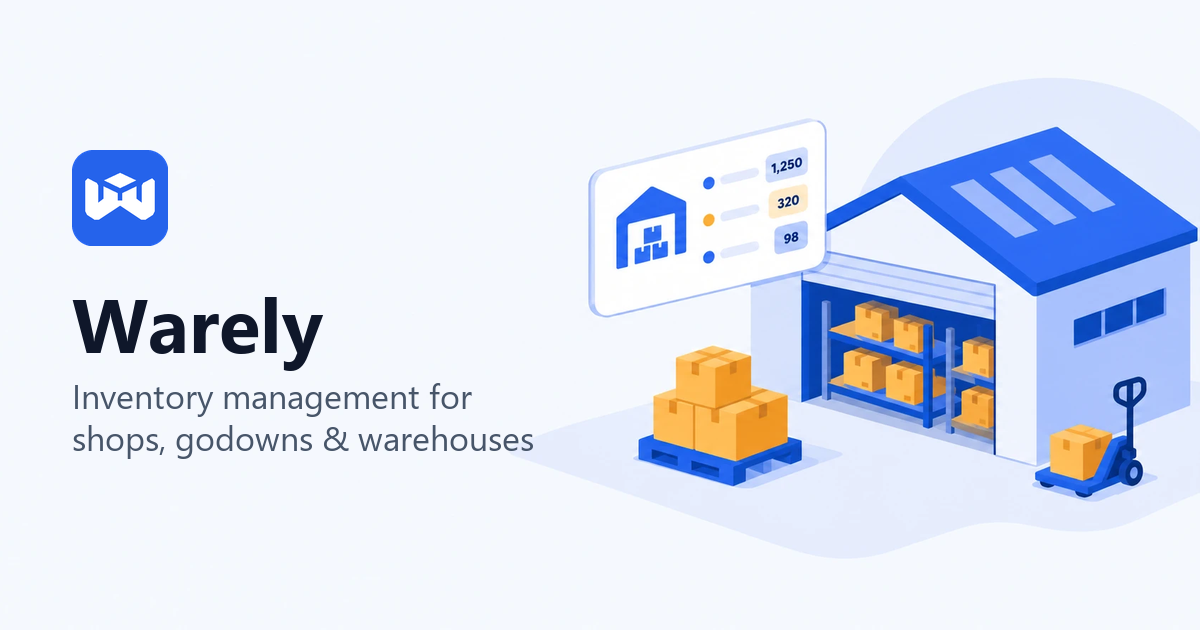
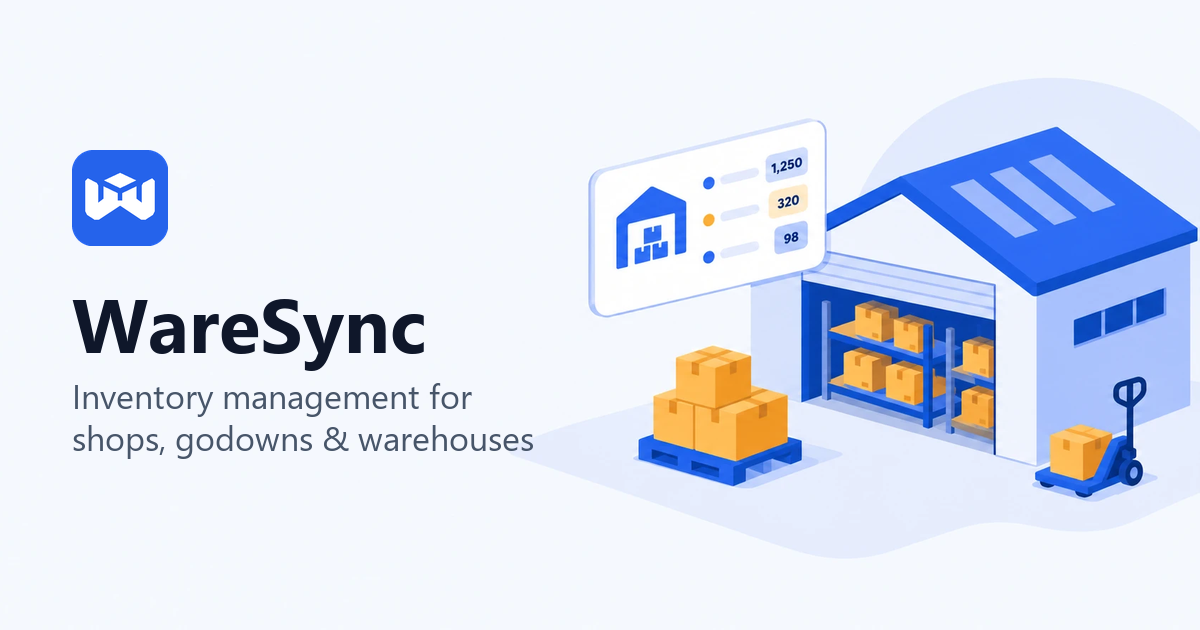
Rename Warely to WareSync
- Brand name, page titles, auth and settings screens, legal pages and emails
- Meta tags, sitemap, robots.txt, manifest and share image point to waresyncc.onrender.com
- Session cookie renamed to waresync_session (users are signed out once)
- Package names, env examples and README updated; MongoDB name stays stock-tracker

Changed region(s): [[0.2158, 0.4524, 0.37, 0.6032]]

diff --git a/server/src/lib/email.js b/server/src/lib/email.js
@@ -6,7 +6,7 @@
 //   EMAIL_PROVIDER = brevo | resend    (unset → email features are off)
 //   EMAIL_API_KEY  = the provider's API key
 //   EMAIL_FROM     = sender address, verified with the provider
-//   EMAIL_FROM_NAME (optional, default "Warely")
+//   EMAIL_FROM_NAME (optional, default "WareSync")
 //
 // In development with no provider set, messages are printed to the
 // console instead so the flows can still be tried end to end.
@@ -14,7 +14,7 @@
 const PROVIDER = (process.env.EMAIL_PROVIDER || "").toLowerCase();
 const API_KEY = process.env.EMAIL_API_KEY || "";
 const FROM = process.env.EMAIL_FROM || "";
-const FROM_NAME = process.env.EMAIL_FROM_NAME || "Warely";
+const FROM_NAME = process.env.EMAIL_FROM_NAME || "WareSync";
 const IS_DEV = process.env.NODE_ENV !== "production";
 
 function emailEnabled() {
@@ -76,14 +76,14 @@ function layout({ heading, intro, buttonLabel, link, footnote }) {
   const html = `<!doctype html><html><body style="margin:0;background:#f6f7f9;font-family:-apple-system,Segoe UI,Roboto,Helvetica,Arial,sans-serif;color:#0f172a">
 <table role="presentation" width="100%" cellpadding="0" cellspacing="0" style="padding:32px 16px"><tr><td align="center">
 <table role="presentation" width="100%" cellpadding="0" cellspacing="0" style="max-width:480px;background:#ffffff;border:1px solid #e2e8f0;border-radius:12px;padding:32px">
-<tr><td style="font-size:20px;font-weight:700;padding-bottom:4px">Warely</td></tr>
+<tr><td style="font-size:20px;font-weight:700;padding-bottom:4px">WareSync</td></tr>
 <tr><td style="font-size:18px;font-weight:600;padding:16px 0 8px">${escapeHtml(heading)}</td></tr>
 <tr><td style="font-size:15px;line-height:1.6;color:#334155">${escapeHtml(intro)}</td></tr>
 <tr><td style="padding:24px 0"><a href="${escapeHtml(link)}" style="display:inline-block;background:#2563eb;color:#ffffff;text-decoration:none;font-weight:600;padding:12px 20px;border-radius:8px">${escapeHtml(buttonLabel)}</a></td></tr>
 <tr><td style="font-size:13px;line-height:1.6;color:#64748b">Or paste this link into your browser:<br><span style="word-break:break-all">${escapeHtml(link)}</span></td></tr>
 <tr><td style="font-size:13px;line-height:1.6;color:#64748b;padding-top:16px">${escapeHtml(footnote)}</td></tr>
 </table></td></tr></table></body></html>`;
-  const text = `${heading}\n\n${intro}\n\n${buttonLabel}: ${link}\n\n${footnote}\n\n— Warely`;
+  const text = `${heading}\n\n${intro}\n\n${buttonLabel}: ${link}\n\n${footnote}\n\n— WareSync`;
   return { html, text };
 }
 
@@ -91,36 +91,36 @@ function sendPasswordResetEmail(to, token) {
   const link = `${appUrl()}/reset-password?token=${token}`;
   const { html, text } = layout({
     heading: "Reset your password",
-    intro: "Someone asked to reset the password for your Warely account. If it was you, choose a new password using the button below. The link works once and expires in 1 hour.",
+    intro: "Someone asked to reset the password for your WareSync account. If it was you, choose a new password using the button below. The link works once and expires in 1 hour.",
     buttonLabel: "Choose a new password",
     link,
     footnote: "If you didn't ask for this, you can ignore this email — your password won't change.",
   });
-  return sendEmail({ to, subject: "Reset your Warely password", html, text });
+  return sendEmail({ to, subject: "Reset your WareSync password", html, text });
 }
 
 function sendVerificationEmail(to, token) {
   const link = `${appUrl()}/verify-email?token=${token}`;
   const { html, text } = layout({
     heading: "Confirm your email address",
-    intro: "Confirm this is your email so you can use it to recover your Warely account. The link expires in 24 hours.",
+    intro: "Confirm this is your email so you can use it to recover your WareSync account. The link expires in 24 hours.",
     buttonLabel: "Confirm email",
     link,
-    footnote: "If you didn't create a Warely account, you can ignore this email.",
+    footnote: "If you didn't create a WareSync account, you can ignore this email.",
   });
-  return sendEmail({ to, subject: "Confirm your email for Warely", html, text });
+  return sendEmail({ to, subject: "Confirm your email for WareSync", html, text });
 }
 
 function sendPasswordChangedEmail(to) {
   const link = `${appUrl()}/forgot-password`;
   const { html, text } = layout({
     heading: "Your password was changed",
-    intro: "The password for your Warely account was just changed, and every other device was signed out.",
+    intro: "The password for your WareSync account was just changed, and every other device was signed out.",
     buttonLabel: "Wasn't you? Reset it now",
     link,
     footnote: "If you made this change, there's nothing else to do.",
   });
-  return sendEmail({ to, subject: "Your Warely password was changed", html, text });
+  return sendEmail({ to, subject: "Your WareSync password was changed", html, text });
 }
 
 // Security notice after a password change. Best effort: a mail outage

diff --git a/client/src/pages/legal/Terms.jsx b/client/src/pages/legal/Terms.jsx
@@ -12,8 +12,8 @@ const sections = [
     body: (
       <>
         <p>
-          These Terms of Service (“Terms”) are an agreement between you and {SITE.legalName} (“Warely”, “we”, “us”), and they
-          cover your use of the Warely website and app (the “Service”). By creating a workspace, signing in, or using the
+          These Terms of Service (“Terms”) are an agreement between you and {SITE.legalName} (“WareSync”, “we”, “us”), and they
+          cover your use of the WareSync website and app (the “Service”). By creating a workspace, signing in, or using the
           Service, you agree to these Terms and to our <Link to="/privacy">Privacy Policy</Link>. If you don't agree, please
           don't use the Service.
         </p>
@@ -26,7 +26,7 @@ const sections = [
   },
   {
     id: "eligibility",
-    title: "Who can use Warely",
+    title: "Who can use WareSync",
     body: (
       <p>
         You must be at least 18 years old and able to enter into a binding contract under Indian law to create a workspace.
@@ -60,7 +60,7 @@ const sections = [
     body: (
       <>
         <p>
-          Everything you put into Warely — items, quantities, warehouses, party names, requests and logs (“Your Data”) — stays
+          Everything you put into WareSync — items, quantities, warehouses, party names, requests and logs (“Your Data”) — stays
           yours. You give us permission to store, process and display Your Data only as needed to run the Service for you, keep
           it secure, and fix problems. We don't sell Your Data or use it for advertising.
         </p>
@@ -99,11 +99,11 @@ const sections = [
   },
   {
     id: "not-advice",
-    title: "Warely is a record-keeping tool, not advice",
+    title: "WareSync is a record-keeping tool, not advice",
     body: (
       <>
         <p>
-          Warely helps you record and view stock movements. Its figures — stock levels, daily opening and closing stock,
+          WareSync helps you record and view stock movements. Its figures — stock levels, daily opening and closing stock,
           reports and exports — are calculated only from the entries made in your workspace. They are not an audit, a
           valuation, or accounting, tax, GST or legal advice.
         </p>
@@ -120,7 +120,7 @@ const sections = [
     body: (
       <>
         <p>
-          Warely is currently offered free of charge. We work to keep it running and your data safe, but we don't promise it
+          WareSync is currently offered free of charge. We work to keep it running and your data safe, but we don't promise it
           will always be available, uninterrupted or error-free. It may be unavailable during maintenance, outages of our
           hosting providers, or events outside our control.
         </p>
@@ -148,7 +148,7 @@ const sections = [
     title: "Our intellectual property",
     body: (
       <p>
-        The Warely name, logo, software and website content belong to us. These Terms give you a limited, non-exclusive,
+        The WareSync name, logo, software and website content belong to us. These Terms give you a limited, non-exclusive,
         non-transferable right to use the Service for your business while you follow them — nothing else. If you send us
         feedback or ideas, we may use them freely without owing you anything.
       </p>
@@ -160,7 +160,7 @@ const sections = [
     body: (
       <>
         <p>
-          You can stop using Warely at any time. An admin can delete the whole workspace from <strong>Settings → Danger
+          You can stop using WareSync at any time. An admin can delete the whole workspace from <strong>Settings → Danger
           Zone</strong>; an admin can remove employee accounts from the Team page.
         </p>
         <p>
@@ -258,8 +258,8 @@ export default function TermsPage() {
       title="Terms of Service"
       intro={
         <p>
-          Plain-language summary: Warely is a free tool for recording stock. Your data is yours, keep your login safe, use it
-          lawfully, and double-check important numbers — Warely is a record-keeping tool, not accounting or tax advice. The full
+          Plain-language summary: WareSync is a free tool for recording stock. Your data is yours, keep your login safe, use it
+          lawfully, and double-check important numbers — WareSync is a record-keeping tool, not accounting or tax advice. The full
           terms below are what apply.
         </p>
       }

diff --git a/client/src/pages/legal/Privacy.jsx b/client/src/pages/legal/Privacy.jsx
@@ -12,7 +12,7 @@ const sections = [
     title: "Who we are",
     body: (
       <p>
-        Warely is operated by {SITE.legalName}, {SITE.country} (“we”, “us”). For your account details we decide how and why
+        WareSync is operated by {SITE.legalName}, {SITE.country} (“we”, “us”). For your account details we decide how and why
         they're used, so we're responsible for them (a “Data Fiduciary” under India's Digital Personal Data Protection Act,
         2023). Contact us any time at <Email />.
       </p>
@@ -70,7 +70,7 @@ const sections = [
         When your workspace records details about other people — like a customer's name on a sale, or an employee's username —
         your business decides what to record and why. For that data, your business is responsible as the Data Fiduciary and
         we process it only on its behalf to provide the Service. If you're a customer, supplier or employee of a business that
-        uses Warely, please contact that business first about your data; we'll help them respond.
+        uses WareSync, please contact that business first about your data; we'll help them respond.
       </p>
     ),
   },
@@ -79,7 +79,7 @@ const sections = [
     title: "Who we share it with",
     body: (
       <>
-        <p>We share data only with service providers that help us run Warely, under their own security and confidentiality obligations:</p>
+        <p>We share data only with service providers that help us run WareSync, under their own security and confidentiality obligations:</p>
         <ul>
           <li><strong>Render</strong> — application hosting (servers in the United States).</li>
           <li><strong>MongoDB Atlas</strong> — database hosting.</li>
@@ -89,7 +89,7 @@ const sections = [
         </ul>
         <p>
           We may also disclose data when required by law or by a lawful request from a government authority, or to protect the
-          rights and safety of our users or the public. If Warely is ever transferred to someone else, your data would move
+          rights and safety of our users or the public. If WareSync is ever transferred to someone else, your data would move
           with it under this policy, and we'd tell you first.
         </p>
       </>
@@ -142,9 +142,9 @@ const sections = [
     title: "Cookies and local storage",
     body: (
       <>
-        <p>Warely uses only what's strictly needed for it to work — no advertising or analytics cookies:</p>
+        <p>WareSync uses only what's strictly needed for it to work — no advertising or analytics cookies:</p>
         <ul>
-          <li><strong>warely_session</strong> (cookie, 7 days): keeps you signed in. Secure and HTTP-only.</li>
+          <li><strong>waresync_session</strong> (cookie, 7 days): keeps you signed in. Secure and HTTP-only.</li>
           <li><strong>Local storage</strong> on your device: your last-used company code and which sign-in tab you used, so you don't have to retype them.</li>
           <li>If you click “Continue with Google”, Google may set its own cookies under <a href="https://policies.google.com/privacy" target="_blank" rel="noreferrer">Google's Privacy Policy</a>.</li>
         </ul>
@@ -175,7 +175,7 @@ const sections = [
     title: "Children",
     body: (
       <p>
-        Warely is a business tool for adults. We don't knowingly collect data from anyone under 18. If you believe a child has
+        WareSync is a business tool for adults. We don't knowingly collect data from anyone under 18. If you believe a child has
         signed up, contact us and we'll delete the account.
       </p>
     ),

diff --git a/client/index.html b/client/index.html
@@ -4,8 +4,8 @@
     <meta charset="UTF-8" />
     <meta name="viewport" content="width=device-width, initial-scale=1.0, viewport-fit=cover" />
     <meta name="theme-color" content="#0F172A" />
-    <title>Warely — Inventory management for shops & warehouses</title>
-    <meta name="description" content="Warely is inventory management for shops, godowns and warehouses — stock across every location, approval before anything changes, and a daily opening-to-closing report." />
+    <title>WareSync — Inventory management for shops & warehouses</title>
+    <meta name="description" content="WareSync is inventory management for shops, godowns and warehouses — stock across every location, approval before anything changes, and a daily opening-to-closing report." />
     <meta name="robots" content="index, follow" />
     <link rel="icon" href="/favicon.svg" type="image/svg+xml" />
     <link rel="icon" href="/favicon-32.png" sizes="32x32" type="image/png" />
@@ -13,16 +13,16 @@
     <link rel="manifest" href="/site.webmanifest" />
 
     <meta property="og:type" content="website" />
-    <meta property="og:site_name" content="Warely" />
-    <meta property="og:url" content="https://warelyy.onrender.com/" />
+    <meta property="og:site_name" content="WareSync" />
+    <meta property="og:url" content="https://waresyncc.onrender.com/" />
     <meta property="og:locale" content="en_IN" />
-    <meta property="og:title" content="Warely — Inventory management for shops & warehouses" />
+    <meta property="og:title" content="WareSync — Inventory management for shops & warehouses" />
     <meta property="og:description" content="Stock across every location, approval before anything changes, and a daily opening-to-closing report." />
-    <meta property="og:image" content="https://warelyy.onrender.com/og-image.png" />
+    <meta property="og:image" content="https://waresyncc.onrender.com/og-image.png" />
     <meta property="og:image:width" content="1200" />
     <meta property="og:image:height" content="630" />
     <meta name="twitter:card" content="summary_large_image" />
-    <meta name="twitter:image" content="https://warelyy.onrender.com/og-image.png" />
+    <meta name="twitter:image" content="https://waresyncc.onrender.com/og-image.png" />
 
     <link rel="preconnect" href="https://fonts.googleapis.com" />
     <link rel="preconnect" href="https://fonts.gstatic.com" crossorigin />
@@ -32,7 +32,7 @@
     />
   </head>
   <body>
-    <noscript>Warely needs JavaScript turned on to run.</noscript>
+    <noscript>WareSync needs JavaScript turned on to run.</noscript>
     <div id="root"></div>
     <script type="module" src="/src/main.jsx"></script>
   </body>

diff --git a/client/src/pages/Login.jsx b/client/src/pages/Login.jsx
@@ -9,7 +9,7 @@ import { useAuthConfig } from "../lib/authConfig";
 // Remember, on this device, which way the person signs in and their
 // company code — the field people forget most.
 const CODE_KEY = "st:lastCompanyCode";
-const MODE_KEY = "warely:loginMode";
+const MODE_KEY = "waresync:loginMode";
 function readStored(key, fallback = "") {
   try {
     return localStorage.getItem(key) || fallback;
@@ -87,7 +87,7 @@ export default function LoginPage() {
     <AuthLayout
       title="Sign in"
       subtitle={mode === "email" ? "Welcome back. Sign in to manage your workspace." : "Employees sign in with the company code from their admin."}
-      topLink={{ text: "New to Warely?", label: "Create a workspace", to: "/signup" }}
+      topLink={{ text: "New to WareSync?", label: "Create a workspace", to: "/signup" }}
       panelTitle="Every sale, receipt and transfer — approved and on record."
       panelPoints={[
         "Approve your team's entries before stock changes",
@@ -97,7 +97,7 @@ export default function LoginPage() {
       footer={
         mode === "email" ? (
           <>
-            By continuing, you agree to Warely's{" "}
+            By continuing, you agree to WareSync's{" "}
             <Link to="/terms" className="font-medium text-ink hover:underline">Terms of Service</Link> and{" "}
             <Link to="/privacy" className="font-medium text-ink hover:underline">Privacy Policy</Link>.
           </>

diff --git a/client/src/lib/site.js b/client/src/lib/site.js
@@ -3,17 +3,17 @@
 // VITE_* variables at build time — or edit the fallbacks here.
 //
 //   VITE_SUPPORT_EMAIL   address for support, privacy and grievance requests
-//   VITE_LEGAL_NAME      the person (or company) that operates Warely
+//   VITE_LEGAL_NAME      the person (or company) that operates WareSync
 //   VITE_LEGAL_CITY      city whose courts have jurisdiction, e.g. "Kolkata"
-//   VITE_SITE_URL        public URL, e.g. https://warelyy.onrender.com
+//   VITE_SITE_URL        public URL, e.g. https://waresyncc.onrender.com
 
 const env = import.meta.env;
 
 export const SITE = {
-  name: "Warely",
-  url: (env.VITE_SITE_URL || "https://warelyy.onrender.com").replace(/\/+$/, ""),
-  supportEmail: env.VITE_SUPPORT_EMAIL || "support@warely.example",
-  legalName: env.VITE_LEGAL_NAME || "the operator of Warely",
+  name: "WareSync",
+  url: (env.VITE_SITE_URL || "https://waresyncc.onrender.com").replace(/\/+$/, ""),
+  supportEmail: env.VITE_SUPPORT_EMAIL || "support@waresync.example",
+  legalName: env.VITE_LEGAL_NAME || "the operator of WareSync",
   legalCity: env.VITE_LEGAL_CITY || "India",
   country: "India",
   // Keep in step with TERMS_VERSION in server/src/middleware/auth.js.

diff --git a/server/src/lib/password.js b/server/src/lib/password.js
@@ -20,7 +20,7 @@ const COMMON = new Set(
     "qwerty123", "qwertyuiop", "qwerty12", "1q2w3e4r", "1qaz2wsx", "asdfghjk", "zxcvbnm1",
     "iloveyou", "iloveyou1", "sunshine", "princess", "football", "baseball", "superman",
     "welcome1", "welcome123", "letmein1", "admin123", "administrator", "changeme",
-    "abcd1234", "abc12345", "aa123456", "india123", "india@123", "warely123", "warely",
+    "abcd1234", "abc12345", "aa123456", "india123", "india@123", "waresync123", "waresync",
     "test1234", "default1", "trustno1", "computer", "whatever", "starwars", "dragon12",
   ].map((p) => p.toLowerCase())
 );
@@ -59,7 +59,7 @@ async function isBreached(password) {
   const suffix = sha1.slice(5);
   try {
     const res = await fetch(`https://api.pwnedpasswords.com/range/${prefix}`, {
-      headers: { "Add-Padding": "true", "User-Agent": "warely-password-check" },
+      headers: { "Add-Padding": "true", "User-Agent": "waresync-password-check" },
       signal: AbortSignal.timeout(2500),
     });
     if (!res.ok) return false;

diff --git a/client/src/pages/AdminSettings.jsx b/client/src/pages/AdminSettings.jsx
@@ -57,7 +57,7 @@ function AccountCard({ user, reloadUser }) {
   }
 
   async function signOutEverywhere() {
-    if (!confirm("Sign out of Warely on every device, including this one?")) return;
+    if (!confirm("Sign out of WareSync on every device, including this one?")) return;
     await post("/auth/logout-all", {});
     navigate("/login", { replace: true });
   }
@@ -65,7 +65,7 @@ function AccountCard({ user, reloadUser }) {
   return (
     <div className="card p-5 sm:p-6 mb-6">
       <h2 className="font-bold text-slate-900 mb-1">Your account</h2>
-      <p className="text-sm text-slate-500 mb-5">How you sign in to Warely as {user.username}.</p>
+      <p className="text-sm text-slate-500 mb-5">How you sign in to WareSync as {user.username}.</p>
 
       {notice && (
         <div className="mb-4">

diff --git a/client/src/components/AccountGate.jsx b/client/src/components/AccountGate.jsx
@@ -46,11 +46,11 @@ function AcceptTerms({ firstTime, onDone }) {
 
   return (
     <GateShell
-      title={firstTime ? "Welcome to Warely" : "We've updated our terms"}
+      title={firstTime ? "Welcome to WareSync" : "We've updated our terms"}
       subtitle={
         firstTime
-          ? "Before you start, please read and accept the terms for using Warely."
-          : `Our Terms of Service and Privacy Policy were updated on ${SITE.legalUpdated}. Please review and accept them to keep using Warely.`
+          ? "Before you start, please read and accept the terms for using WareSync."
+          : `Our Terms of Service and Privacy Policy were updated on ${SITE.legalUpdated}. Please review and accept them to keep using WareSync.`
       }
     >
       <form onSubmit={accept} className="space-y-5">

diff --git a/client/src/components/Brand.jsx b/client/src/components/Brand.jsx
@@ -1,8 +1,8 @@
 import { Link } from "react-router-dom";
 
-export const BRAND_NAME = "Warely";
+export const BRAND_NAME = "WareSync";
 
-// The Warely mark: a "W" whose middle is an open box. Same geometry as
+// The WareSync mark: a "W" whose middle is an open box. Same geometry as
 // public/favicon.svg (both drawn on a 100×100 grid).
 const GLYPH_PATH =
   "M14.04 32.06 L16.43 29.67 L25.68 34.13 L27.27 36.84 L27.27 55.18 L33.01 50.72 L33.01 37.8 L47.61 44.82 L47.61 52.63 L52.39 52.63 L52.39 44.82 L66.99 37.8 L66.99 50.72 L72.73 55.18 L72.73 36.84 L74.32 34.13 L83.57 29.67 L85.96 32.06 L86.12 63.8 L84.21 67.46 L76.24 72.73 L72.09 72.57 L50 58.05 L27.91 72.57 L23.76 72.73 L15.79 67.46 L14.04 63.8 Z M50 23.92 L66.67 31.74 L50 39.71 L33.33 31.74 Z";

diff --git a/client/src/pages/NotFound.jsx b/client/src/pages/NotFound.jsx
@@ -5,7 +5,7 @@ import { SiteFooter } from "../components/SiteFooter";
 
 export default function NotFoundPage() {
   useEffect(() => {
-    document.title = "Page not found · Warely";
+    document.title = "Page not found · WareSync";
     // Tell search engines not to index the client-side 404.
     const meta = document.createElement("meta");
     meta.name = "robots";
@@ -13,7 +13,7 @@ export default function NotFoundPage() {
     document.head.appendChild(meta);
     return () => {
       meta.remove();
-      document.title = "Warely — Inventory management for shops & warehouses";
+      document.title = "WareSync — Inventory management for shops & warehouses";
     };
   }, []);
 

diff --git a/client/src/pages/ForgotPassword.jsx b/client/src/pages/ForgotPassword.jsx
@@ -34,7 +34,7 @@ export default function ForgotPasswordPage() {
 
   if (sentTo) {
     return (
-      <AuthLayout title="Check your email" subtitle={`If ${sentTo} belongs to a Warely account, a reset link is on its way.`} {...PANEL}>
+      <AuthLayout title="Check your email" subtitle={`If ${sentTo} belongs to a WareSync account, a reset link is on its way.`} {...PANEL}>
         <div className="space-y-5">
           <ul className="space-y-2 text-sm text-slate-600 list-disc pl-5">
             <li>The link expires in 1 hour and can be used once.</li>
